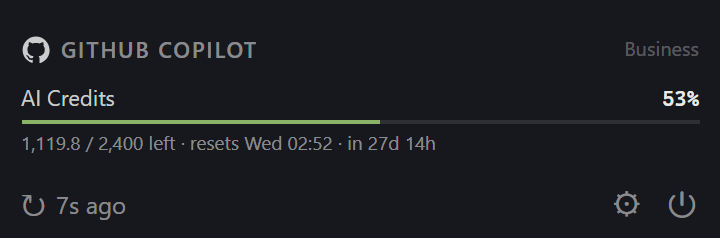
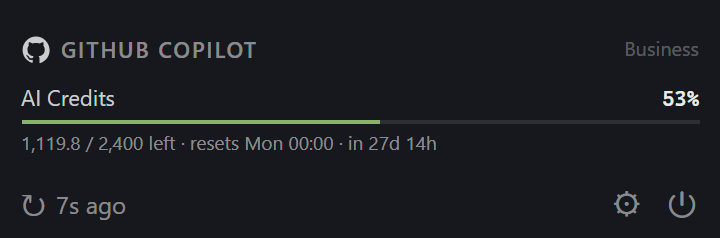
chore(screenshots): reusable harness + auto-regenerate on PR
Adds `npm run screenshots`, which renders the README popover screenshots
from the real TokenCard component (Vite + Playwright, mock data — no Tauri)
and writes docs/screenshots/*.png. The clock, timezone, and locale are
pinned so output is byte-identical across runs and machines.

A new screenshots.yml workflow runs this on every PR and commits any
changes back to the branch, keeping the docs in sync with the UI. It's
deterministic, so the re-run on the auto-commit is a no-op and stops the
loop without needing [skip ci] (which keeps required checks on the head).

- tools/screenshots/{harness.html,harness.tsx,capture.mjs,README.md}
- playwright devDependency + screenshots script
- tailwind content includes tools/screenshots

Changed region(s): [[0.3361, 0.5588, 0.6111, 0.6471]]

diff --git a/tools/screenshots/harness.tsx b/tools/screenshots/harness.tsx
@@ -1,0 +1,84 @@
+// Screenshot harness — renders the real popover card with canned data so the
+// capture script (capture.mjs) can produce deterministic README screenshots
+// without the Tauri backend. Not part of the app build (index.html is the only
+// bundled entry). Add a state to STATES, reference it in capture.mjs.
+import ReactDOM from 'react-dom/client';
+import { TokenCard } from '../../src/components/TokenCard';
+import type { ServiceStatus } from '../../src/lib/api';
+import '../../src/index.css';
+
+const H = 3_600_000;
+const iso = (ms: number) => new Date(Date.now() + ms).toISOString();
+const resetAt = iso((27 * 24 + 15) * H);
+
+const STATES: Record<string, ServiceStatus> = {
+  // GitHub Copilot Business with a per-user AI-Credits quota assigned.
+  quota: {
+    id: 'copilot:1',
+    name: 'GitHub Copilot',
+    plan: 'Business',
+    state: 'active',
+    quotas: [
+      {
+        window: 'monthly',
+        label: 'AI Credits',
+        used: 1280.2,
+        total: 2400,
+        unit: 'requests',
+        resets_at: resetAt,
+      },
+    ],
+    copilot_usage: {
+      mode: 'ai_credits_capped',
+      label: 'AI Credits',
+      entitlement: 2400,
+      remaining: 1119.8,
+      used: 1280.2,
+      percent_remaining: 46.66,
+      overage_permitted: false,
+      reset_date: resetAt,
+    },
+  },
+  // Org-pooled credits — no per-user quota to show.
+  pooled: {
+    id: 'copilot:1',
+    name: 'GitHub Copilot',
+    plan: 'Business',
+    state: 'active',
+    quotas: [],
+    copilot_usage: { mode: 'ai_credits_pooled', reset_date: resetAt },
+  },
+};
+
+const which = new URLSearchParams(location.search).get('state') ?? 'quota';
+const service = STATES[which] ?? STATES.quota;
+
+function Footer() {
+  return (
+    <footer className="mt-2 flex items-center justify-between pt-1 text-[12px] text-fg-tertiary">
+      <span className="inline-flex items-center gap-1.5">
+        <span aria-hidden className="text-[16px] leading-none">
+          ↻
+        </span>
+        7s ago
+      </span>
+      <span className="flex gap-4">
+        <span aria-hidden className="text-[17px] leading-none">
+          ⚙
+        </span>
+        <span aria-hidden className="text-[17px] leading-none">
+          ⏻
+        </span>
+      </span>
+    </footer>
+  );
+}
+
+ReactDOM.createRoot(document.getElementById('root')!).render(
+  <div id="shot" className="bg-window-opaque text-fg-primary" style={{ width: 360 }}>
+    <div className="px-3.5 pt-3.5 pb-2.5">
+      <TokenCard service={service} warnPct={80} critPct={95} />
+      <Footer />
+    </div>
+  </div>,
+);

diff --git a/tools/screenshots/harness.html b/tools/screenshots/harness.html
@@ -1,0 +1,12 @@
+<!doctype html>
+<html lang="en" class="dark">
+  <head>
+    <meta charset="UTF-8" />
+    <meta name="viewport" content="width=device-width, initial-scale=1.0" />
+    <title>Headroom screenshot harness</title>
+  </head>
+  <body style="margin: 0; background: transparent">
+    <div id="root"></div>
+    <script type="module" src="./harness.tsx"></script>
+  </body>
+</html>

diff --git a/tailwind.config.js b/tailwind.config.js
@@ -1,6 +1,6 @@
 /** @type {import('tailwindcss').Config} */
 export default {
-  content: ['./index.html', './src/**/*.{ts,tsx}'],
+  content: ['./index.html', './src/**/*.{ts,tsx}', './tools/screenshots/**/*.{ts,tsx,html}'],
   darkMode: 'class',
   theme: {
     extend: {

diff --git a/tools/screenshots/README.md b/tools/screenshots/README.md
@@ -1,0 +1,19 @@
+# Screenshot tooling
+
+Regenerates the README popover screenshots from the **real** React components, so
+the docs stay in sync with the UI.
+
+```bash
+npx playwright install chromium   # one-time: fetch the browser
+npm run screenshots               # render + write docs/screenshots/*.png
+```
+
+`capture.mjs` boots Vite programmatically, loads `harness.html` (which renders
+`TokenCard` with canned `ServiceStatus` data — no Tauri backend), and screenshots
+each state with Playwright. The clock, timezone, and locale are pinned so the
+output is byte-identical across runs and machines.
+
+- **Add a state:** add an entry to `STATES` in `harness.tsx` and a row in `SHOTS`
+  in `capture.mjs`.
+- **CI:** `.github/workflows/screenshots.yml` runs this on every PR and commits
+  any changes back to the branch automatically.
